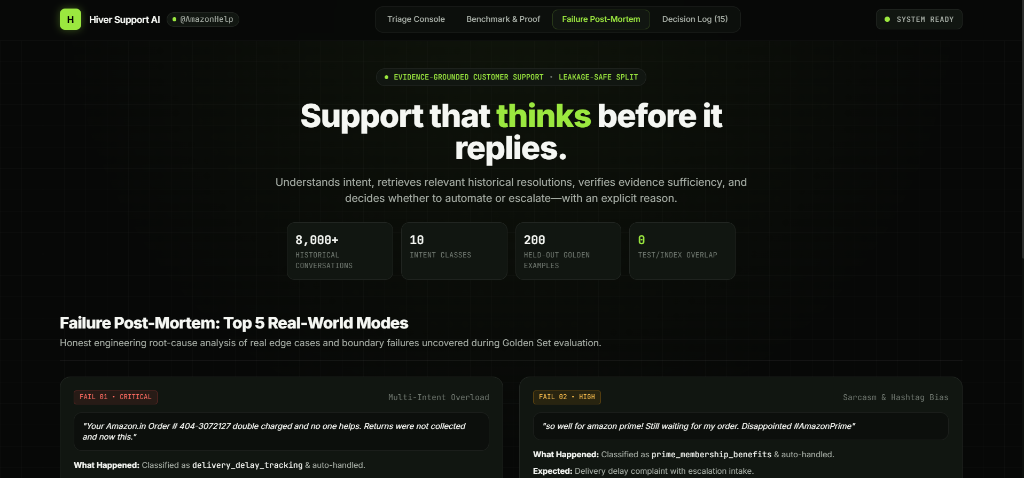
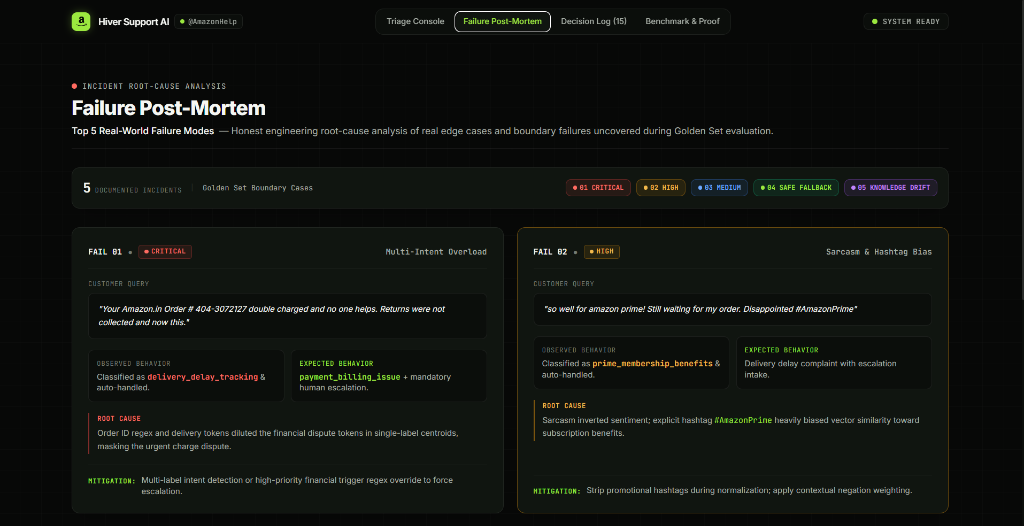
docs: update Failure Post-Mortem screenshots and complete 15-section alignment

diff --git a/README.md b/README.md
@@ -285,7 +285,17 @@ Five representative failure modes were observed during benchmark evaluation ([`r
 
 ---
 
-## 11. Product Interface & Walkthrough
+## 11. One-Week Roadmap
+
+1. **Multi-Label Intent Architecture:** Implement a multi-head binary classifier to detect secondary billing or security complaints in compound tweets.
+2. **Temporal Precedent Weighting:** Apply exponential time-decay weighting to FAISS retrieval to prioritize newer policy precedents over older ones.
+3. **Hybrid Retrieval + Cross-Encoder Reranking:** Add a lightweight `ms-marco-MiniLM-L-6-v2` cross-encoder to re-rank top-15 FAISS candidates for granular alignment.
+4. **Expand Golden Set to 500 Cases:** Use active uncertainty sampling to hand-label cases where model confidence is borderline.
+5. **Cross-Brand Portability Benchmark:** Evaluate zero-shot transferability on `@AppleSupport` and `@Uber_Support` conversation splits.
+
+---
+
+## 12. Product Interface & Walkthrough
 
 The web interface exposes the support pipeline as an auditable workflow rather than an opaque chatbot.
 
@@ -302,7 +312,10 @@ The web interface exposes the support pipeline as an auditable workflow rather t
 
 ### Failure Post-Mortem
 ![Failure Post-Mortem](docs/screenshots/failure-postmortem.png)
-*Detailed case studies of top production failure modes with root-cause hypotheses and architectural fixes.*
+*Incident root-cause analysis showing boundary failures across multi-intent queries, promotional hashtags, and policy edge cases.*
+
+![Failure Post-Mortem Cases](docs/screenshots/failure-postmortem-cases.png)
+*Detailed post-mortem breakdown covering cross-domain intents, terse financial fallbacks, and historical policy drift.*
 
 ### Decision Log
 ![Decision Log](docs/screenshots/decision-log.png)
@@ -310,7 +323,7 @@ The web interface exposes the support pipeline as an auditable workflow rather t
 
 ---
 
-## 12. Technology Stack & Repository Structure
+## 13. Technology Stack & Repository Structure
 
 ### Technology Stack
 
@@ -375,7 +388,7 @@ hiver-ai-support-agent/
 
 ---
 
-## 13. Quick Start (< 15-Minute Reproduction)
+## 14. Quick Start (< 15-Minute Reproduction)
 
 Designed to reproduce headline results well within the assignment's 15-minute requirement.
 
@@ -425,7 +438,7 @@ Open **[http://localhost:8000](http://localhost:8000)** in your browser.
 
 ---
 
-## 14. Limitations
+## 15. Limitations, What We Chose Not to Build & Author
 
 ### Limitations
 - **Single-Label Intent Model:** Compound queries containing two distinct problems must select a primary intent.
@@ -433,9 +446,16 @@ Open **[http://localhost:8000](http://localhost:8000)** in your browser.
 - **Bounded Historical Corpus:** Retrieval is bounded to 8,000 indexed `@AmazonHelp` interaction pairs.
 - **200-Example Golden Set:** Provides $\pm 5.5\%$ margin of error at 95% confidence; larger test sets would capture rarer edge cases.
 - **No Live External Account Systems:** Pipeline does not query live Amazon ERP or carrier tracking systems.
-- **Imperfect LLM Judge:** Automated judge correlates strongly with humans ($
-ho = 0.7632$) but is not a complete replacement for human review.
- 
+- **Imperfect LLM Judge:** Automated judge correlates strongly with humans (ρ = 0.7632) but is not a complete replacement for human review.
+
+### What We Chose Not to Build
+- **No Twitter/X API Bot:** Built as an auditable pipeline, not an active Twitter bot.
+- **No Autonomous Financial Writes:** The agent drafts refund guidance; it does not execute refund transactions via payment APIs.
+- **No Live Account Modifications:** Does not execute password resets or email changes.
+- **No Autonomous Financial/Security Resolution:** Strict policy forces human escalation on billing disputes and account takeovers.
+- **No Full Ticketing Platform:** Focuses on the core triage and grounding intelligence rather than replicating a full CRM ticketing suite.
+- **Not a Production-Ready Deployment:** Demonstrates safety gating and evaluation; requires enterprise integration before live customer routing.
+
 ### Author
 - **Candidate:** Vaishnavi Dasyam
 - **GitHub:** [@Vaishnavidasyam](https://github.com/Vaishnavidasyam)
